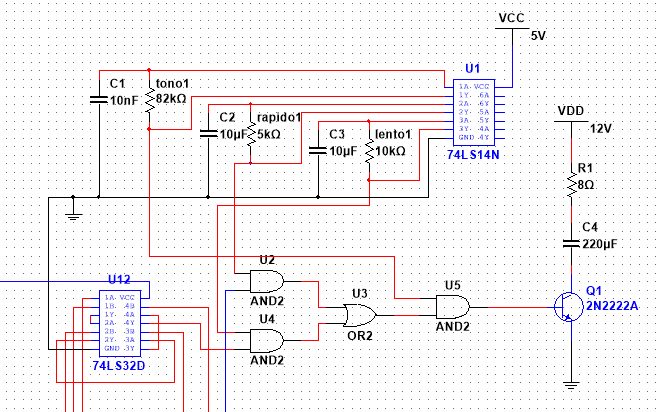
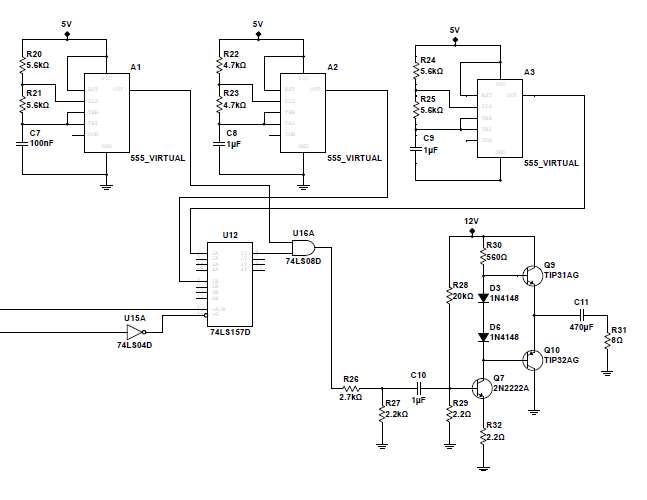
parte auditiva

diff --git a/Informe Segundo avance/Segundo_Informe_Diseño_Semaforo.tex b/Informe Segundo avance/Segundo_Informe_Diseño_Semaforo.tex
@@ -218,9 +218,9 @@ Finalmente, de esta manera se puede verificar individualmente que este bloque se
 \subsection{Descripción}
 Este sistema fue diseñado con el propósito de generar una señal auditiva para los peatones cuando este permitido cruzar la calle. Consiste en generar un sonido periódico cuando el semáforo peatonal se encuentre en verde y que este mismo se acelera una vez que falten cinco segundos para que se vuelva a poner en rojo. \\
 
-Tomando en cuenta las especificaciones solicitadas cumpliendo únicamente con el uso de electrónica básica y sin ningún tipo de microcontroladores, se llego a la conclusión que la mejor forma de manejarlo era por medio de osciladores RC con la que se pueden ajustar la frecuencias y compuertas Schmitt Trigger acompañadas de un amplificador para el sonido de salida.\\
+Tomando en cuenta las especificaciones solicitadas cumpliendo únicamente con el uso de electrónica básica y sin ningún tipo de microcontroladores, se llego a la conclusión que la mejor forma de manejarlo era por medio de osciladores aestebles con circuitos integrados 555 que permiten ajustar la frecuencia deseada por medio de resistencias y capacitores.\\
 
-Dado estos requerimientos se pude decir que el sistema completo se divide en cuatro bloques funcionales principales:
+Dado estos requerimientos se pude decir que el sistema completo se divide en los siguientes bloques funcionales principales:
 \begin{enumerate}
     \item Generación del tono audible.
     \item Generación de la frecuencia de repetición lenta.
@@ -228,14 +228,11 @@ Dado estos requerimientos se pude decir que el sistema completo se divide en cua
     \item Etapa de selección y amplificación de potencia.
 \end{enumerate}
 
-En cuanto al funcionamiento del circuito, todo empieza generando una señal de una frecuencia audible (en este caso unos 2kHz aproximadamente) por medio de un oscilador principal. Se selecciona esta frecuencia ya que se encuentra dentro del rango perceptible por el oído humano siendo perceptible fácilmente.
-Adicional a esto, se generan además dos osciladores mas de aproximadamente 1Hz y 5Hz sujetos a modificaciones según las pruebas del circuito ensamblado en físico.\\
+En cuanto al funcionamiento del circuito, todo inicia con la generación de tres señales cuadradas mediante temporizadores 555 configurados como osciladores astables. La primera corresponde al tono audible, con una frecuencia aproximada de 1\,kHz, seleccionada por encontrarse dentro del rango de mayor sensibilidad del oído humano y, por tanto, ser fácilmente perceptible. Adicionalmente, se generan dos señales de aproximadamente 1Hz y 2Hz, las cuales se emplean para producir las velocidades de repetición lenta y rápida del tono, respectivamente.\\
 
-Estas señales no funcionan como audio directamente, sino que al combinarse lógicamente generan periodos de activación de la señal de tono según la velocidad que sea deseada y dependiendo directamente del estado del semáforo peatonal.\\
+Posteriormente, la selección de la velocidad y la habilitación del sonido se realizan mediante un multiplexor (MUX). Este recibe como señales de control las salidas provenientes de la máquina de estados, específicamente las señales PEATONAL_ROJO y ULTIMOS_5_SEG. Dependiendo de la combinación de estas entradas, el multiplexor selecciona una de las tres posibles salidas: ausencia de sonido, repetición lenta (1Hz) o repetición rápida (2Hz). De esta manera, se concentra en un único bloque la lógica necesaria para determinar el comportamiento del sistema de audio según el estado del semáforo. La señal de salida habilitada por el multiplexor se combina finalmente mediante una compuerta AND con el tono audible de 1kHz.\\
 
-Dependiendo del estado en el que se encuentre el semáforo y ligado a la parte de la maquina de estados se generan posteriormente dos compuertas AND con las que se selecciona la velocidad del tono que se desea en cierto momento admitiendo como entradas para cada una la señal rápida o lenta y una señal que se puede interpretar como los 'últimos 5s'. Mediante esto, solo una de las señales debería estar activa en un momento determinada, pero por medidas de seguridad, se implementa entra las salidas de ambas una compuerta OR con las que se asegura que en ningún momento se activen ambas señales produciendo bugs. A la salida de esta compuerta se adiciona nuevamente un AND para así tener la suma del selector de velocidad y el tono audible y que se esta manera suene la bocina cuando la señal de velocidad deseada esta activa.\\
-
-Finalmente, se toma la señal resultante y se pasa por una etapa amplificadora con un transistor NPN en configuración de conmutación ya que no es necesario utilizar un amplificado líneal mas complicado porque se tienen como salida ya una señal cuadrada.\\
+Para la etapa de amplificación, dado que la lógica digital entrega una amplitud de 5V pero con una capacidad de corriente baja para el uso requerido, se implementa inicialmente un divisor de tensión para adaptar el nivel de entrada del amplificador. Posteriormente, la señal atraviesa un amplificador de dos etapas: una primera etapa de ganancia de voltaje basada en un transistor en configuración de emisor común y una segunda etapa de potencia tipo push-pull clase AB, ambas alimentadas con una fuente de 12V. Esta configuración proporciona tanto la ganancia de tensión como la capacidad de corriente necesarias para accionar el parlante de forma adecuada, garantizando un nivel de sonido adecuado para la aplicación.\\
 
 \subsection{Diagrama del circuito}
 
@@ -247,24 +244,25 @@ Finalmente, se toma la señal resultante y se pasa por una etapa amplificadora c
 	\end{figure}
 
 \subsection{Justificación de Diseño}
-\begin{itemize}
-	\item{Compuerta Schmitt Trigger 74LS14}
-		Se selecciono un circuito integrado 74LS14 por la necesidad de generar señales cuadradas de un voltaje en corriente continua. Permite se manera sencilla implementar osciladores RC con bastante estabilidad evitando problemas de ruido y transiciones. Ademas, permite la generación de varios osciladores con un mismo circuito conectando una entrada y salida mediante una resistencia y un capacitor entre la entrada y tierra. Esto genera que conforme los valores elegidos de cada componente y según la carga o descarga del capacitor se genere de manera simple una señal cuadrada.\\
-		
-	\item{Compuertas AND/OR}
-		Permiten procesar la lógica necesaria para que no haya bugs en el sistema. Permiten una selección de velocidad de pitidos y una mezcla de estos con la señal audible.\\
-		
-	\item{Transistor NPN}
-		El transistor NPN fue seleccionado debido a que las compuertas lógicas no son capaces de suministrar la corriente necesaria para alimentar directamente el parlante. El transistor añade corriente y por ende potencia entre la lógica digital y logra que la carga de salida sea audible más fácilmente.
-		Como beneficio adicional, esta configuración protege las compuertas lógicas contra sobrecorrientes y permite utilizar una fuente de alimentación de mayor voltaje para aumentar el volumen del sonido emitido.\\
-		
-	\item{Resistencia de Base}
-		La resistencia conectada a la base del transistor limita la corriente de entrada, evitando daños tanto en la salida lógica como en el transistor. Este componente resulta fundamental para garantizar una operación segura del sistema.\\
-		
-	\item{Parlante}
-		Se utilizó un parlante de baja impedancia como dispositivo de salida debido a su simplicidad y facilidad de integración. El uso de ondas cuadradas permite generar tonos audibles claramente distinguibles sin necesidad de circuitos de audio complejos.
-\end{itemize}
+En esta sección se justifica la selección de los principales componentes utilizados en la implementación del circuito de generación y amplificación del tono audible.
 
+\begin{itemize}
+
+    \item Temporizadores 555: Se emplearon tres temporizadores 555 configurados en modo astable debido a su simplicidad, y estabilidad para generar señales cuadradas. Un primer temporizador produce el tono audible de aproximadamente 1kHz, mientras que los otros dos generan las frecuencias de repetición de 1Hz y 2Hz, correspondientes a las velocidades lenta y rápida requeridas. Además, estos circuitos integrados permiten ajustar fácilmente la frecuencia mediante la selección de resistencias y capacitores.
+
+    \item Multiplexor: Se seleccionó un multiplexor como bloque de decisión debido a que simplifica considerablemente la lógica de selección de la señal de salida. A partir de las señales de control PEATONAL_ROJO y ULTIMOS_5_SEG, el MUX determina automáticamente si la salida debe permanecer deshabilitada o si debe haber una repetición lenta o rápida. Esta solución reduce la cantidad de compuertas lógicas necesarias.
+
+    \item Compuerta AND: La salida del multiplexor se combina mediante una compuerta AND con la señal de 1kHz. De esta manera, el tono audible únicamente está presente cuando la señal de habilitación seleccionada por el MUX se encuentra activa.
+
+    \item Divisor de tensión: Antes de la etapa de amplificación se implementó un divisor de tensión para adaptar el nivel de la señal proveniente de la lógica digital al valor requerido por la etapa amplificadora. Esto permite establecer un punto de operación adecuado para el transistor de entrada.
+
+    \item Amplificador en emisor común: La primera etapa de amplificación corresponde a un amplificador de voltaje con transistor BJT en configuración de emisor común. Esta topología fue elegida por su elevada ganancia de voltaje, su facilidad de diseño.
+
+    \item Etapa push-pull clase AB: Como etapa final se implementó un amplificador de potencia push-pull clase AB alimentado con 12V. Esta configuración proporciona la corriente necesaria para activar adecuadamente el parlante. Se debe tomar en cuenta que por la corriente manejada, se utilizaron transistores de potencia mucho mas robustos y con alta capacidad de disipación de calor.
+
+    \item Parlante: Se utilizó un parlante para convertir la señal eléctrica amplificada en una señal sonora. La selección de un amplificador de potencia previo garantiza que el parlante reciba la corriente suficiente para producir un nivel de sonido adecuado para la aplicación.
+
+\end{itemize}
 \subsection{Gráficas}
 
 \begin{figure}[H]